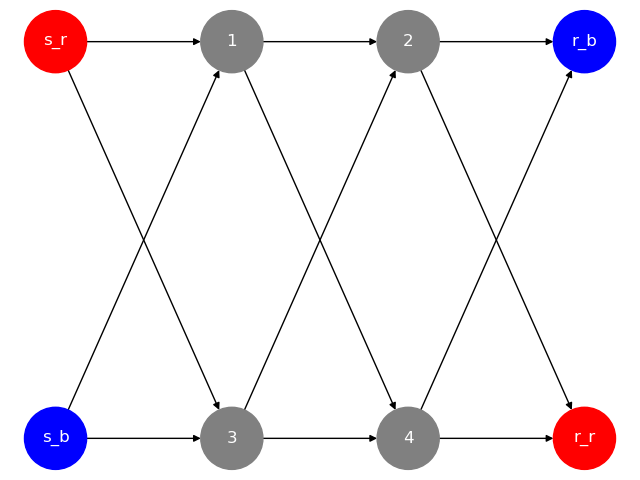
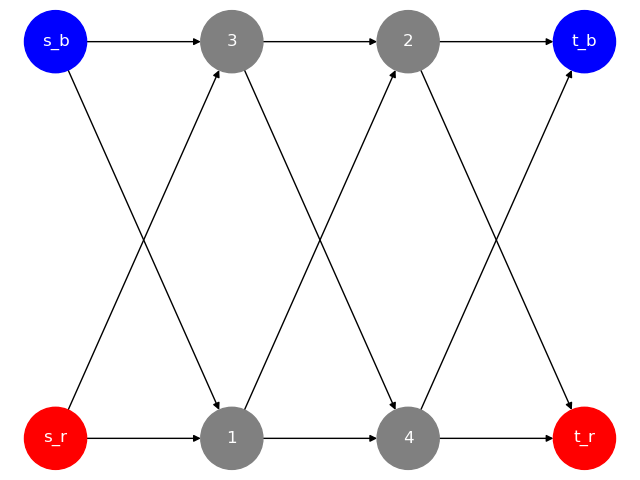
update: add intro and maths

diff --git a/src/scripts/multi_commodity_flow_example.py b/src/scripts/multi_commodity_flow_example.py
@@ -45,8 +45,8 @@ G.add_node("1", partition=1)
 G.add_node("3", partition=1)
 G.add_node("2", partition=2)
 G.add_node("4", partition=2)
-G.add_node("r_b", demand=-2, partition=3)
-G.add_node("r_r", demand=-3, partition=3)
+G.add_node("t_b", demand=-2, partition=3)
+G.add_node("t_r", demand=-3, partition=3)
 
 G.add_edge("s_b", "1", capacity=2, weight=0)
 G.add_edge("s_b", "3", capacity=2, weight=0)
@@ -58,10 +58,10 @@ G.add_edge("1", "4", capacity=3, weight=3)
 G.add_edge("3", "2", capacity=3, weight=3)
 G.add_edge("3", "4", capacity=3, weight=1)
 
-G.add_edge("2", "r_b", capacity=2, weight=0)
-G.add_edge("2", "r_r", capacity=2, weight=0)
-G.add_edge("4", "r_b", capacity=3, weight=0)
-G.add_edge("4", "r_r", capacity=3, weight=0)
+G.add_edge("2", "t_b", capacity=2, weight=0)
+G.add_edge("2", "t_r", capacity=2, weight=0)
+G.add_edge("4", "t_b", capacity=3, weight=0)
+G.add_edge("4", "t_r", capacity=3, weight=0)
 
 nx.draw(
     G,

diff --git a/src/relaxation.md b/src/relaxation.md
@@ -1,0 +1,85 @@
+# Relaxation
+
+The main idea of the algorithm devised by [Liu et al](https://arxiv.org/abs/2108.07549) is to relax both the conservation of flow constraint on the vertices and the capacity constraint on the edges. This relaxation is done by introducing a **pseudo-flow**.
+
+The **pseudo-flow**, defined as \\( \mathcal{f}: K \times E \to \mathbb{R}^+ \\), is a function that maps each commodity \\( k \in \mathcal{K} \\) and edge \\( (i, j) \in E \\) to a non-negative real number, which is just the same as that of a *real* flow. The main difference is that the pseudo-flow does not need to satisfy the constraints noted above.
+
+Going forward, all \\( f_{ij,k} \\) will refer to the pseudo-flow unless otherwise noted.
+
+## Height
+
+Relaxing the conservation of flow constraint on the vertices, we keep track of the amount by which the flow going into a vertex exceeds the flow going out of it:
+
+\\[
+\Delta_{ik} = \sum_{j \in \delta^-(i)} f_{ji,k} - \sum_{j \in \delta^+(i)} f_{ij,k} + \hat{\Delta}_{ik}, \quad \forall i \in V, \; k \in \mathcal{K}
+\\]
+
+We now refer to this as the **height** of the vertex \\( i \\) for commodity \\( k \\).
+
+\\[
+    h_{ik} = \Delta_{ik}
+\\]
+
+We can see that the conservation of flow constraint will hold when the height of all vertices is zero.
+
+## Congestion
+
+Relaxing the capacity constraint on the edges, we keep track of the amount by which the flow on an edge exceeds its capacity:
+
+\\[
+\psi_{ij} = \begin{cases}
+    f_{ij} - u_{ij}, & \text{if } f_{ij} > u_{ij} \\\\
+    0, & \text{if } f_{ij} \leq u_{ij}
+\end{cases}
+\\]
+
+where \\(f_{ij}\\) is just the sum of the pseudo-flows for all commodities on edge \\((i, j)\\):
+
+\\[
+    f_{ij} = \sum_{k \in \mathcal{K}} f_{ij,k}
+\\]
+
+We can see that the capacity constraint will hold when the congestion of all edges is zero.
+
+## Potential difference
+
+Now that we have defined the height and congestion, we can define the **potential difference** for each commodity \\( k \in \mathcal{K} \\) between two vertices \\( i \\) and \\( j \\):
+
+\\[
+    \phi_{ij,k} = h_{ik} - h_{jk} - \psi_{ij}
+\\]
+
+Intuitively, if the potential difference is positive, it means that the flow from \\( i \\) to \\( j \\) for commodity \\( k \\) is too low because of broken conservation of flow.
+
+Conversely, if the potential difference is negative, it means that the flow from \\( i \\) to \\( j \\) for commodity \\( k \\) is too high because of broken conservation of flow *or* capacity constraint.
+
+As noted, for both the flow conservation and capacity constraints to hold, all heights and congestions must be zero, which implies that the potential difference must be zero for all commodities on all edges in a feasible solution.
+
+However, the converse is not necessarily true. A zero potential difference does not imply that the flow is feasible. This is because we could have a positive \\( h_{ik} - h_{jk} \\) (more flow going into \\( i \\) than going out of \\( j \\)) and a positive \\( \psi_{ij} \\) (flow on edge \\( (i, j) \\) exceeds its capacity) that cancel each other out. This implies that the flow is infeasible.
+
+The above observations are indeed formalized in the following section.
+
+## Stable pseudo-flow
+
+In the paper, a **psuedo-flow** is a **stable psuedo-flow** if it satisfies the following conditions:
+- For any used edge of commodity \\( k \\), the height difference between vertex \\( i \\) and vertex \\( j \\) for commodity \\( k \\) is equal to the congestion of edge \\((i, j)\\), i.e., the potential difference \\( \phi_{ij,k} \\) is zero.
+- For any unused edge of commodity \\( k \\), the height difference between vertex \\( i \\) and vertex \\( j \\) is less than or equal to the congestion of edge \\((i, j)\\), i.e., the potential difference \\( \phi_{ij,k} \\) is less than or equal to zero.
+
+where an edge \((i, j)\) is used by commodity \(k\) if \(f_{ij,k} > 0\).
+
+### Zero stable pseudo-flow
+
+A **stable pseudo-flow** is a **zero stable pseudo-flow** if it satisfies the following additional condition:
+\\[
+    \psi_{ij} = 0, h_{ik} = 0, \forall (i, j) \in E, i \in V, k \in \mathcal{K}
+\\]
+
+otherwise, it is a **non-zero stable pseudo-flow**.
+
+From the above definitions, the author then proves the following theorem.
+
+## Theorem
+
+> There exists a feasible flow for the multi-commodity flow problem if and only if there exists zero-stable pseudo-flow.
+
+In fact, if a non-zero stable pseudo-flow exists, then there is no feasible flow for the multi-commodity flow problem.

diff --git a/src/mathematical_notations.md b/src/mathematical_notations.md
@@ -1,0 +1,42 @@
+# Mathematical notations
+
+Much like the single-commodity flow problem, the multi-commodity flow problem can be formulated as a linear program. The multi-commodity flow problem can be defined with the following constraints:
+- The sum of the flow for all commodities on each edge must be less than or equal to the capacity of the edge:
+
+    \\[
+    \sum_{k \in \mathcal{K}} f_{ij,k} \leq u_{ij}, \quad \forall (i, j) \in E
+    \\]
+
+- The flow for all commodities at each node must be conserved, except for the source and sink nodes of each commodity.
+
+    \\[
+    \sum_{j \in \delta^+(i)} f_{ij,k} - \sum_{j \in \delta^-(i)} f_{ji,k} =
+    \hat{\Delta}_{ik}, \quad \forall k \in \mathcal{K}, \; i \in V
+    \\]
+
+    where \\( \hat{\Delta}_{ik} \\) is defined as:
+
+    \\[
+    \hat{\Delta}_{ik} = 
+    \begin{cases} 
+    0, & \text{if } i \in V \setminus \{s_k, t_k\} \\\\
+    d_k, & \text{if } i = s_k \\\\
+    -d_k, & \text{if } i = t_k.
+    \end{cases}
+    \\]
+
+- The flow for all commodities on each edge must be non-negative.
+
+    \\[
+    f_{ij,k} \geq 0, \quad \forall k \in \mathcal{K}, \quad (i, j) \in E
+    \\]
+
+Here, we have:
+- \\(\mathcal{K}\\) is the set of all commodities.
+- \\(V\\) is the set of all nodes.
+- \\(E\\) is the set of all edges.
+- \\(f_{ij,k}\\) is the flow on edge \\((i, j)\\) for commodity \\(k\\).
+- \\(u_{ij}\\) is the capacity of edge \\((i, j)\\).
+- \\(d_k\\) is the demand of commodity \\(k\\).
+- \\( \hat{\Delta}_{ik} \\) is a correction term used to account for the added or removed flow at the source and sink nodes of each commodity.
+- \\(\delta^+(i)\\) and \\(\delta^-(i)\\) are the sets of edges that are incident to node \\(i\\) in the forward and backward directions, respectively.

diff --git a/src/introduction.md b/src/introduction.md
@@ -1,6 +1,6 @@
 # Introduction
 
-The multi-commodity flow problem is a network flow problem with multiple commodities. Given a directed graph and a set of commodities, the goal is to find a flow for each edge and each commodity such that the flow satisfies the capacity constraints of the edges and the conservation of flow at each node.
+The multi-commodity flow problem is a network flow problem with multiple commodities. Given a directed graph and a set of commodities, the goal is to find a flow for each edge and each commodity such that the flow satisfies the capacity constraints of the edges and the conservation of flow at each node. Even though the demands are different, the capacities of the edges are often shared between the commodities, which poses a challenge in finding a feasible solution.
 
 ![Multi-commodity flow problem example](./images/multi_commodity_flow_example.png)
 

diff --git a/src/SUMMARY.md b/src/SUMMARY.md
@@ -1,5 +1,6 @@
 # Summary
 
-[Introduction](./Introduction.md)
-
-- [What is a multicommodity flow problem?](./what_is_multicommodity_flow.md)
+[Introduction](./introduction.md)
+- [Mathematical notations](./mathematical_notations.md)
+- [Relaxation](./relaxation.md)
+- [Algorithm](./algorithm.md)

diff --git a/src/algorithm.md b/src/algorithm.md
@@ -1,0 +1,1 @@
+# Algorithm
